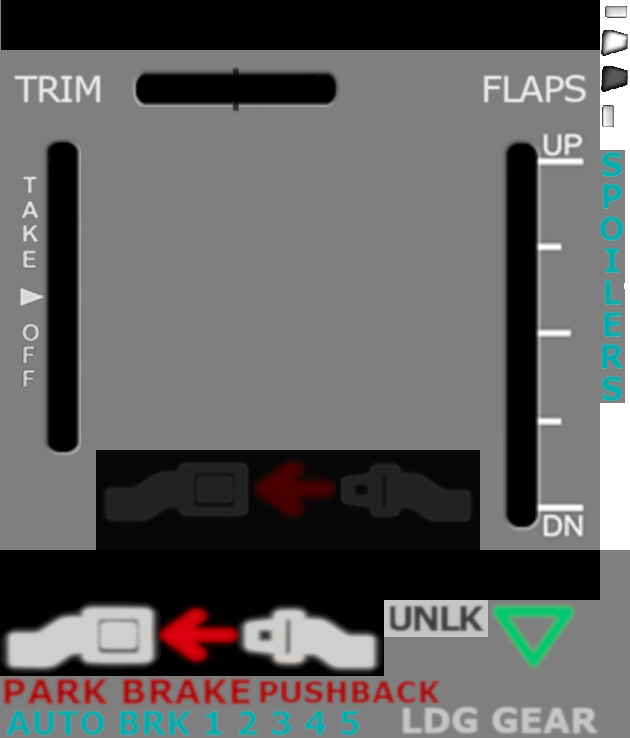
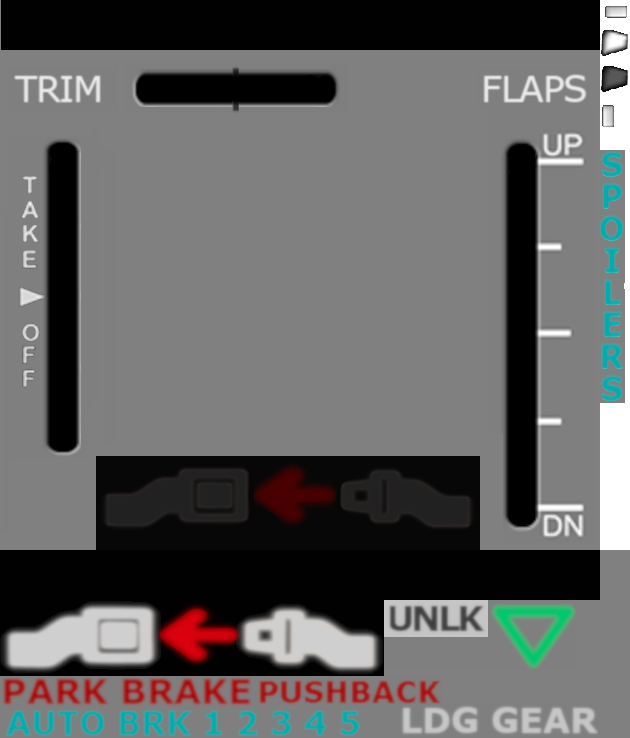
Add new instrument

diff --git a/instrument-panel/instruments/trimFlaps2.cpp b/instrument-panel/instruments/trimFlaps2.cpp
@@ -228,7 +228,7 @@ void trimFlaps2::render()
 
     if (simVars->seatBeltsSwitch > 0) {
         // Add seatbelts on
-        al_draw_scaled_bitmap(bitmaps[13], 0, 0, 384, 76, 97 * scaleFactor, 454 * scaleFactor, 384 * scaleFactor, 76 * scaleFactor, 0);
+        al_draw_scaled_bitmap(bitmaps[13], 0, 0, 384, 76, 97 * scaleFactor, 460 * scaleFactor, 384 * scaleFactor, 76 * scaleFactor, 0);
     }
 
     al_set_target_backbuffer(globals.display);
